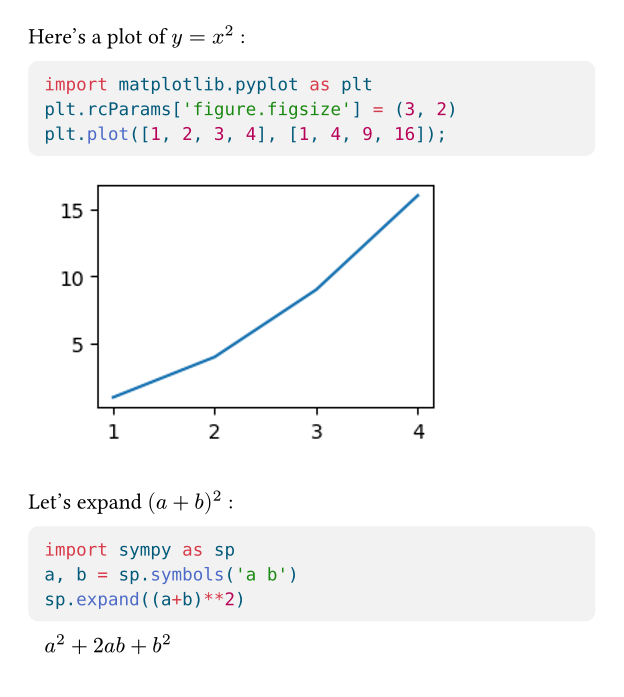
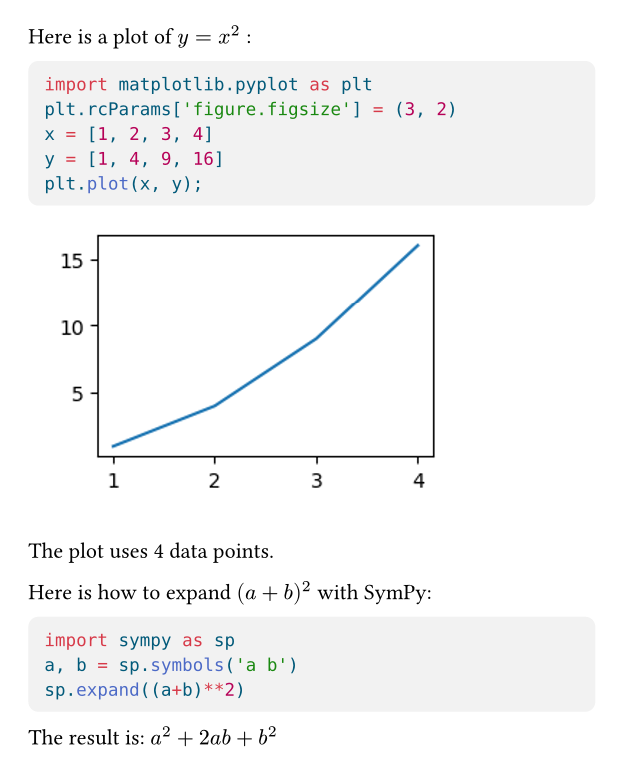
Readme: improve execution example

diff --git a/README.md b/README.md
@@ -109,7 +109,8 @@ Export code blocks to a Jupyter notebook and render the results:
   ``````typst
   #import "@preview/callisto:0.3.0"
 
-  #let (execute, stage-notebook) = callisto.config(
+  #let (output, execute, evaluate,
+      stage-notebook) = callisto.config(
     nb: path("export.ipynb"),
     kernel: "python3",
     theme: "neat",
@@ -120,21 +121,28 @@ Export code blocks to a Jupyter notebook and render the results:
   }
   #stage-notebook()
 
-  Here's a plot of $y = x^2$ :
+  Here is a plot of $y = x^2$ :
 
   ```py-x
   import matplotlib.pyplot as plt
   plt.rcParams['figure.figsize'] = (3, 2)
-  plt.plot([1, 2, 3, 4], [1, 4, 9, 16]);
+  x = [1, 2, 3, 4]
+  y = [1, 4, 9, 16]
+  plt.plot(x, y);
   ```
 
-  Let's expand $(a+b)^2$ :
+  The plot uses #evaluate(`len(x)`) data points.
+
+  Here is how to expand $(a+b)^2$ with SymPy:
 
   ```py-x
+  #| output: false
   import sympy as sp
   a, b = sp.symbols('a b')
   sp.expand((a+b)**2)
-  ```
+  ```<sympy-calc>
+
+  The result is: #output(<sympy-calc>)
   ``````
 
   </td>
